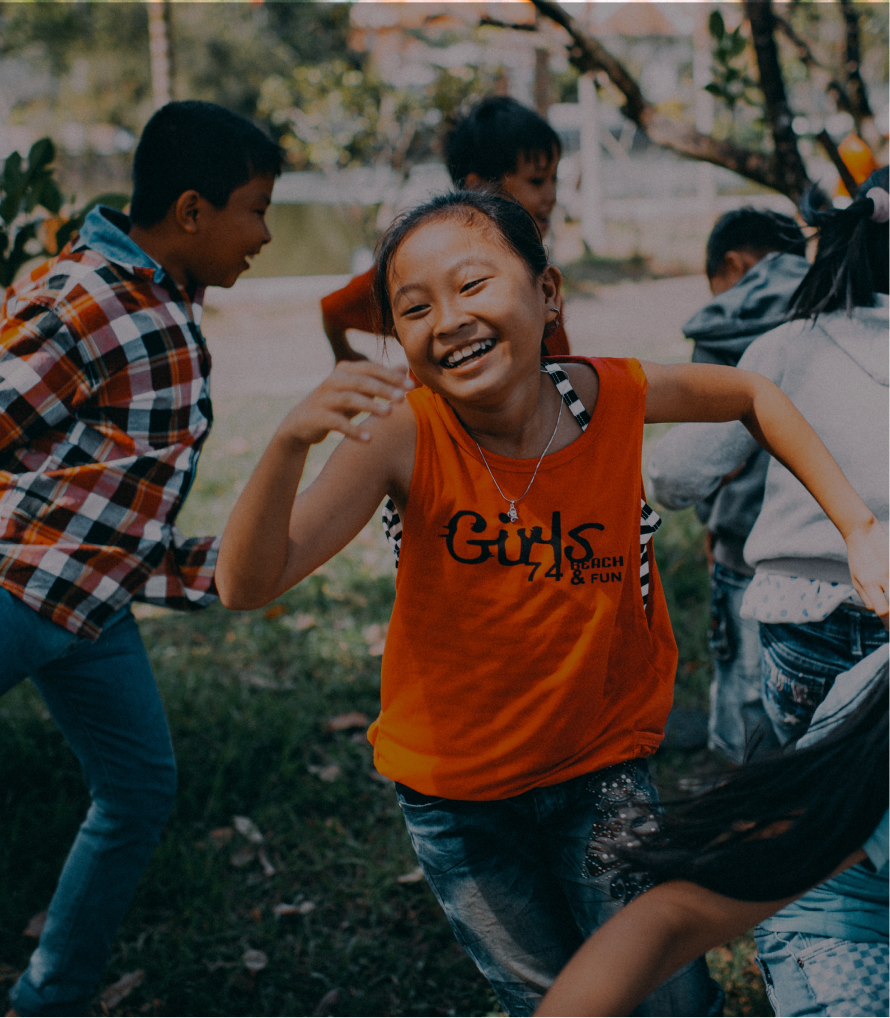
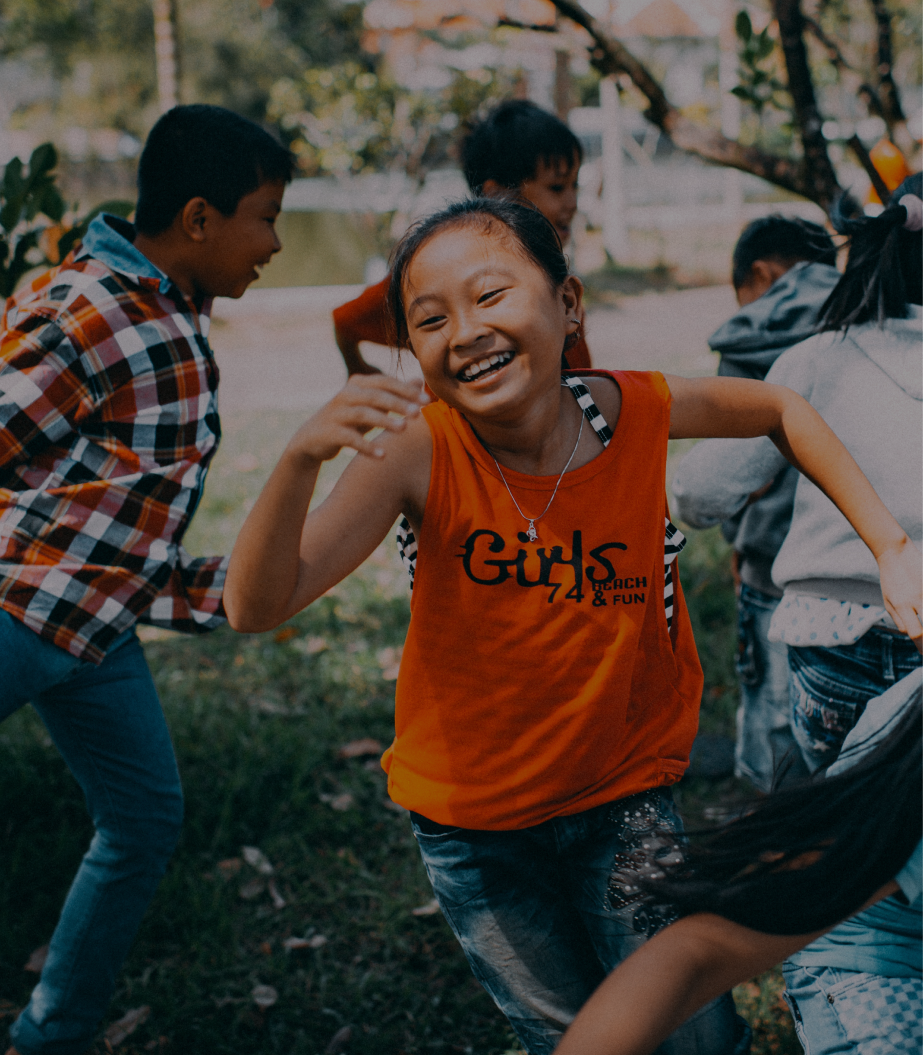
fixed activitpage intro

diff --git a/client/src/pages/ActivityPage.js b/client/src/pages/ActivityPage.js
@@ -2,50 +2,35 @@ import React from "react";
 import { Box } from "@mui/system";
 import { Container, Typography } from "@mui/material";
 import Background from "../assets/kids2Filter.png";
-import Pink from "../assets/pink.png";
 import ActivityCard from "../components/UpdatedActivityCard";
 
 function ActivityPage() {
   return (
     <React.Fragment>
       <Container
+        variant="flex"
         sx={{
-          display: "flex",
-          flexDirection: "column",
-          alignItems: "center",
-          justifyContent: "center",
           backgroundImage: `url(${Background})`,
           backgroundSize: "cover",
           backgroundPosition: "center",
-          p: 0,
+          alignItems: "flex-start",
         }}
       >
-        <Box>
+        <Box sx={{ mb: 6, ml: 1, mr: 1 }}>
           <Typography
             variant="h1"
-            align="left"
             sx={{
-              ml: -14,
-              mb: 2,
-              mt: 3,
               color: "#FFFFFF",
               fontSize: "16px",
             }}
           >
             <h1>Joina en aktivitet!</h1>
           </Typography>
-        </Box>
-        <Box>
           <Typography
             variant="subtitle1"
-            align="left"
             sx={{
-              ml: 3,
-              mr: 3,
-              mb: 2,
               color: "#FFFFFF",
               fontSize: "14px",
-              fontWeight: "regular",
             }}
           >
             Här nedan kan du se vilka aktiviteter som våra fina medlemmar eller
@@ -57,15 +42,9 @@ function ActivityPage() {
         </Box>
       </Container>
       <Container
+        variant="flex"
         sx={{
-          display: "flex",
-          flexDirection: "column",
-          alignItems: "center",
-          justifyContent: "center",
-          backgroundImage: `url(${Pink})`,
-          backgroundSize: "cover",
-          backgroundPosition: "center",
-          p: 0,
+          backgroundColor: "#FBEEED",
         }}
       >
         <ActivityCard />
